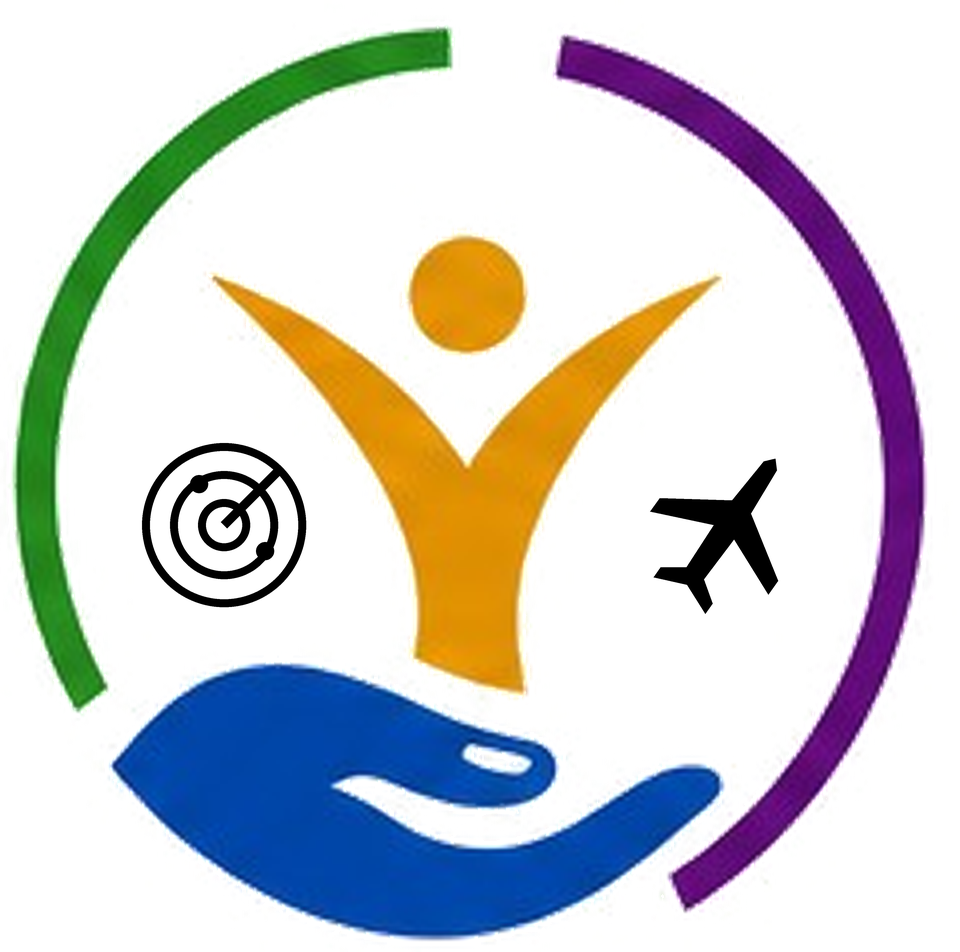
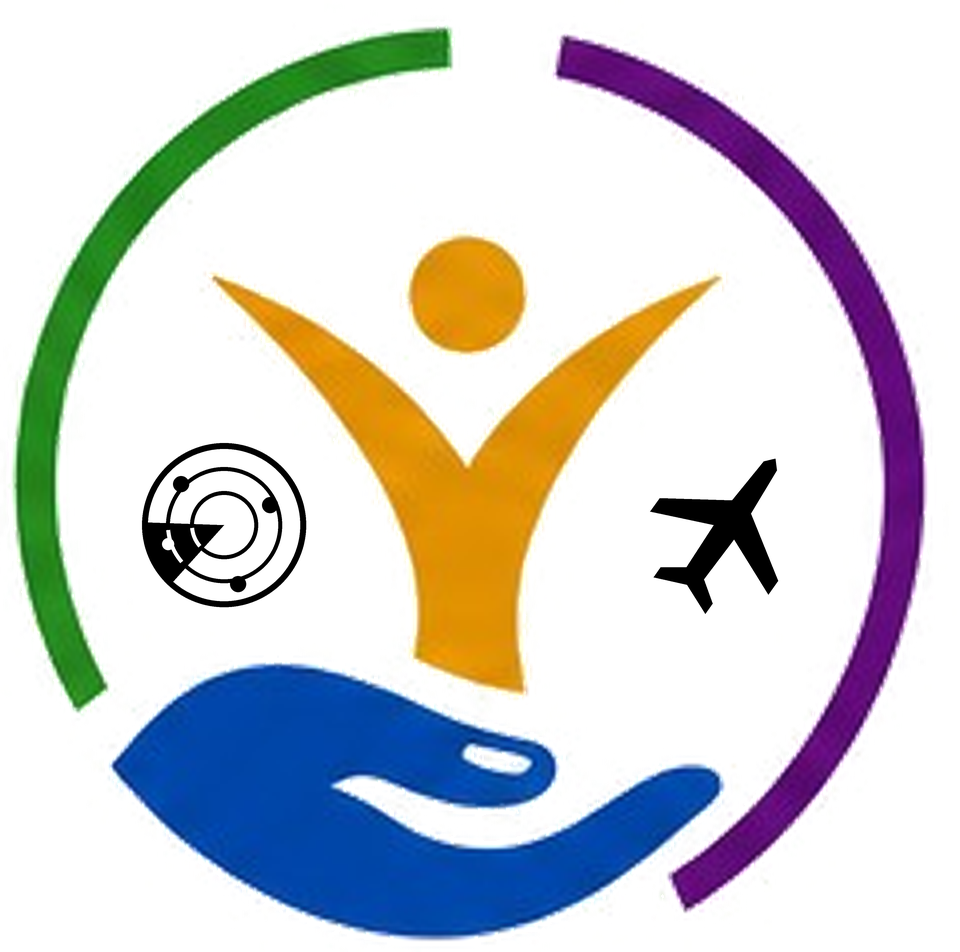
Refine radar pictogram with sweep sector and remove target-like crosshair

Changed region(s): [[0.1562, 0.4569, 0.3125, 0.6397]]

diff --git a/lib/features/home/home_shell.dart b/lib/features/home/home_shell.dart
@@ -77,7 +77,7 @@ class _HomeShellState extends State<HomeShell> {
                       maxLines: 2,
                       style:
                           TextStyle(fontWeight: FontWeight.w800, fontSize: 16)),
-                  Text('V0.3.5 · DEVELOPMENT',
+                  Text('V0.3.6 · DEVELOPMENT',
                       style: TextStyle(fontSize: 10, letterSpacing: 1.2)),
                 ]),
             actions: [

diff --git a/assets/branding/compose_icon.py b/assets/branding/compose_icon.py
@@ -9,9 +9,16 @@ layer=Image.new('RGBA',(base.width*scale,base.height*scale))
 d=ImageDraw.Draw(layer)
 def box(cx,cy,r):return tuple(round(v*scale) for v in (cx-r,cy-r,cx+r,cy+r))
 # Only the two new black pictograms are drawn. The approved raster is untouched.
-for r in [82,54,26]: d.ellipse(box(224,525,r),outline='black',width=8*scale)
-d.line([(224*scale,525*scale),(281*scale,468*scale)],fill='black',width=9*scale)
-for x,y in [(199,484),(265,551)]:d.ellipse(box(x,y,9),fill='black')
+# Radar range rings and a swept sector, based on the supplied radar reference.
+# No crosshair axes and no central bullseye.
+for r in [82,58,34]:
+ d.ellipse(box(224,525,r),outline='black',width=(6 if r==82 else 4)*scale)
+d.pieslice(box(224,525,80),start=132,end=182,fill='black')
+for r in [58,34]:
+ d.arc(box(224,525,r),start=139,end=175,fill='white',width=4*scale)
+for x,y in [(181,484),(270,505),(238,584)]:
+ d.ellipse(box(x,y,8),fill='black')
+d.ellipse(box(168,544,6),fill='white')
 # Top-view aircraft silhouette, angled to the right.
 points=[(0,-92),(9,-82),(13,-25),(82,20),(82,39),(14,10),(12,67),(36,84),(36,98),(0,83),(-36,98),(-36,84),(-12,67),(-14,10),(-82,39),(-82,20),(-13,-25),(-9,-82)]
 a=math.radians(35)

diff --git a/assets/branding/README.md b/assets/branding/README.md
@@ -11,3 +11,5 @@ The source SHA-256 is `c067aa5cd622a326b20dd8e33eb280666a2300460e90dd54d9036826d
 `CAF4U_Aircraft_Companion_Symbol.png` retains transparency. The Light PNG is the same composition over white.
 Android launcher exports scale this composition, retain padding, and use a white square canvas.
 The app label is CAF4U Aircraft Companion; no text is embedded in the launcher icon.
+
+Radar refinement: the user-supplied radar reference informed a filled sweep sector, thinner range rings and irregular blips. Crosshair axes and the central bullseye are omitted. A pixel comparison against the previous composition confirmed that changes are restricted to the left radar area (145,446)-(303,604).
